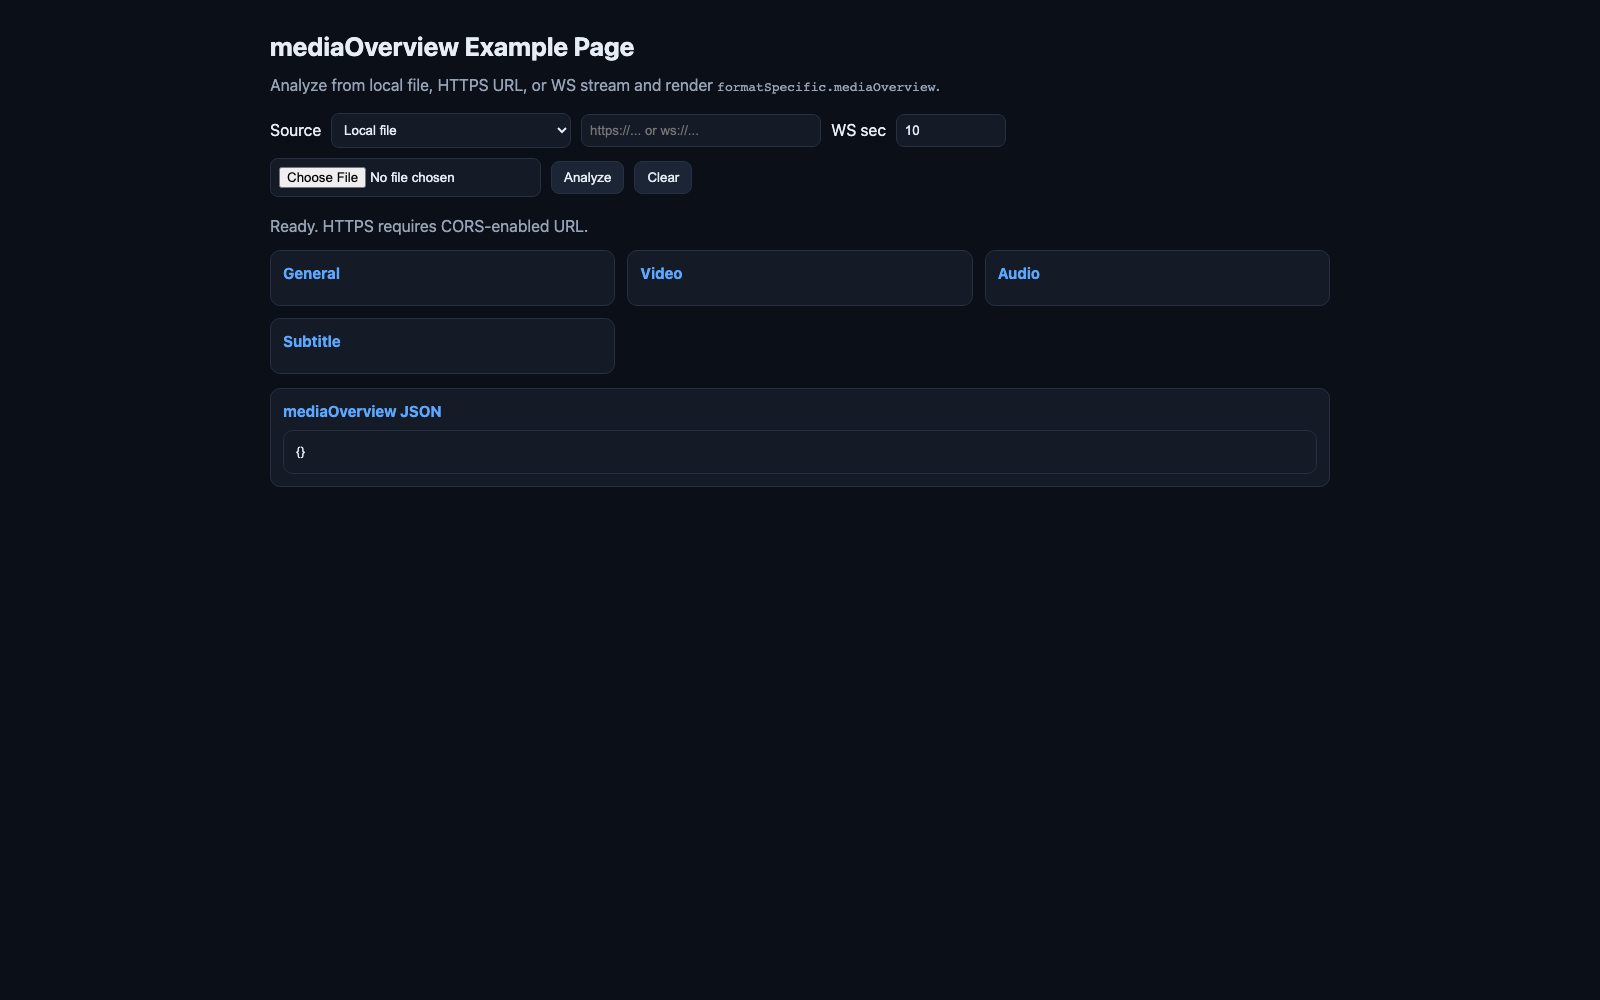
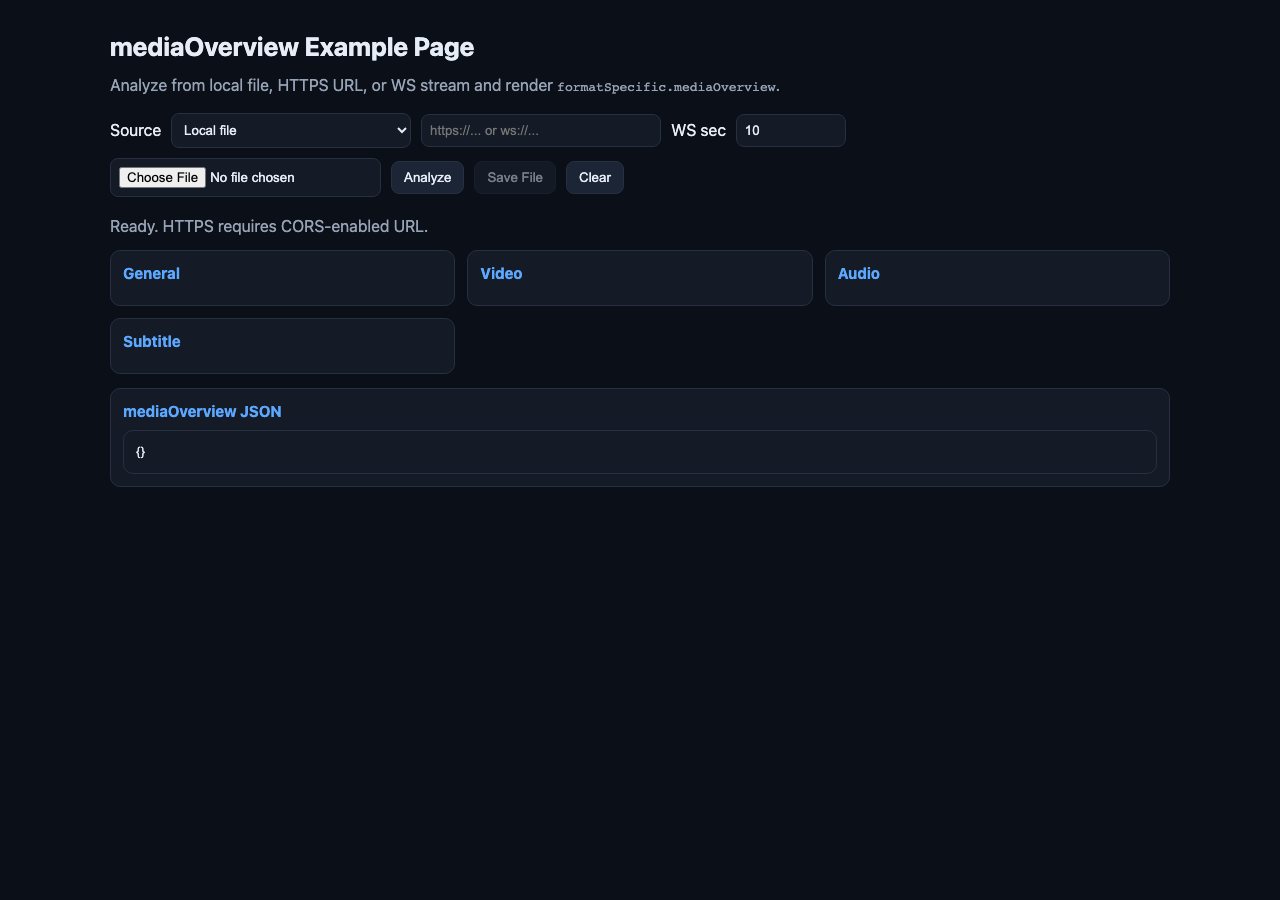
Update documentation and assets: remove player module documentation, add .venv-docs-screenshots to .gitignore, and update frame analysis demo screenshots.

diff --git a/scripts/regenerate_docs_screenshots.py b/scripts/regenerate_docs_screenshots.py
@@ -1,0 +1,95 @@
+#!/usr/bin/env python3
+"""Capture README screenshots for example HTML pages (requires Playwright).
+
+  pip install playwright
+  playwright install chromium
+
+Run from anywhere; paths are resolved relative to the media-analyzer package root.
+"""
+
+from __future__ import annotations
+
+import http.server
+import socket
+import socketserver
+import threading
+from pathlib import Path
+
+ROOT = Path(__file__).resolve().parents[1]
+OUT_DIR = ROOT / "docs" / "screenshots"
+
+SHOTS: list[tuple[str, str, dict]] = [
+    (
+        "examples/media-overview-demo.html",
+        "media-overview-demo.png",
+        {"width": 1280, "height": 900, "device_scale_factor": 1},
+    ),
+    (
+        "examples/frame-analysis-demo.html",
+        "frame-analysis-demo.png",
+        {"width": 1920, "height": 1080, "device_scale_factor": 1},
+    ),
+]
+
+
+class _RootHandler(http.server.SimpleHTTPRequestHandler):
+    def __init__(self, *args, **kwargs):
+        super().__init__(*args, directory=str(ROOT), **kwargs)
+
+    def log_message(self, fmt: str, *args) -> None:
+        del fmt, args
+
+
+def _free_port() -> int:
+    s = socket.socket(socket.AF_INET, socket.SOCK_STREAM)
+    s.bind(("127.0.0.1", 0))
+    port = s.getsockname()[1]
+    s.close()
+    return int(port)
+
+
+def main() -> None:
+    try:
+        from playwright.sync_api import sync_playwright
+    except ImportError as e:
+        raise SystemExit(
+            "Missing playwright. Install with:\n"
+            "  pip install playwright\n"
+            "  playwright install chromium\n"
+        ) from e
+
+    OUT_DIR.mkdir(parents=True, exist_ok=True)
+    port = _free_port()
+    httpd = socketserver.ThreadingTCPServer(("127.0.0.1", port), _RootHandler)
+    httpd.daemon_threads = True
+    thread = threading.Thread(target=httpd.serve_forever, daemon=True)
+    thread.start()
+    base = f"http://127.0.0.1:{port}"
+
+    try:
+        with sync_playwright() as p:
+            browser = p.chromium.launch(headless=True)
+            try:
+                for rel_html, filename, viewport in SHOTS:
+                    page = browser.new_page(viewport=viewport)
+                    try:
+                        page.goto(
+                            f"{base}/{rel_html}",
+                            wait_until="load",
+                            timeout=120_000,
+                        )
+                        page.wait_for_timeout(2500)
+                        dest = OUT_DIR / filename
+                        page.screenshot(path=str(dest), full_page=True)
+                        print(f"Wrote {dest.relative_to(ROOT)}")
+                    finally:
+                        page.close()
+            finally:
+                browser.close()
+    finally:
+        httpd.shutdown()
+        httpd.server_close()
+
+
+if __name__ == "__main__":
+    main()

diff --git a/docs/cef-experiment-conclusion.md b/docs/cef-experiment-conclusion.md
@@ -1,0 +1,71 @@
+# CEF Desktop Experiment Conclusion
+
+Date: 2026-05-12
+
+## Background
+
+The experiment evaluated whether CEF could become the desktop runtime for Media Analyzer while keeping the existing browser-first frontend and extending native capabilities such as RTMP pull, local FFmpeg processing, and low-level network access.
+
+The expected direction was:
+
+- Keep the current JavaScript UI and player code.
+- Use CEF as an embedded browser shell.
+- Expose native media capabilities through a JS bridge.
+- Pull RTMP locally, transmux/transcode when needed, and feed playback data back to the frontend.
+
+## What Was Verified
+
+CEF can host the current frontend and expose a native bridge. Basic application bootstrapping, frontend loading, and native-to-JS messaging are feasible.
+
+RTMP pulling through a local FFmpeg process is also feasible from the native side. FFmpeg can receive RTMP streams and produce browser-consumable containers such as fragmented MP4 in principle.
+
+However, the key playback path was blocked by CEF runtime codec support. In the tested CEF build, MSE rejected common H.264/AAC fragmented MP4 MIME types such as:
+
+```text
+video/mp4; codecs="avc1.420020,mp4a.40.2"
+```
+
+Trying compatible `avc1` codec-string variants did not solve the issue. This indicates that the failure was not caused by RTMP itself, FLV packaging, or fMP4 segment delivery, but by the embedded CEF runtime's media capability set.
+
+## Key Finding
+
+RTMP and FLV are not the real dividing line here. For the current project, the important question is whether the runtime can reliably decode and play the resulting elementary streams through the selected browser playback path.
+
+In normal Chrome, FLV.js-style playback can work because Chrome commonly has the required H.264/AAC media support. In the tested CEF runtime, the same H.264/AAC fMP4 path was not reliably available through MSE.
+
+The existing project also relies heavily on browser media APIs such as WebCodecs and canvas rendering. CEF introduces another compatibility matrix for:
+
+- MSE container and codec support.
+- Proprietary codec availability.
+- WebCodecs support and behavior.
+- Platform-specific media pipeline differences.
+- Custom CEF build requirements if H.264/AAC support is needed.
+
+This makes CEF a risky foundation for the current player direction.
+
+## Conclusion
+
+CEF should not be used as the primary desktop runtime for Media Analyzer at this stage.
+
+The experiment showed that CEF can provide native integration, but its media/runtime limitations are too significant for a project whose core value depends on precise browser media behavior, WebCodecs workflows, and H.264/AAC/RTMP-related playback.
+
+Using CEF would likely require maintaining a custom CEF build with proprietary codec support and repeatedly validating media behavior across platforms. That cost is not aligned with the current project goals.
+
+## Recommended Direction
+
+Keep the browser/WebCodecs frontend as the primary player and analysis surface.
+
+For capabilities that browsers cannot provide directly, such as RTMP, raw TCP, device access, or heavyweight transcoding, prefer a separate native sidecar or local service:
+
+- Native sidecar handles RTMP pull, FFmpeg, TCP, files, and platform-specific work.
+- Browser frontend keeps UI, analysis views, WebCodecs playback, canvas rendering, and developer velocity.
+- Communication happens through WebSocket, HTTP, or another explicit local IPC protocol.
+- Media data should be passed in browser-friendly formats that match the existing player modules.
+
+This keeps the strongest part of the current architecture intact while adding native power only where it is actually required.
+
+## Status
+
+CEF implementation code and demo code have been removed from the project.
+
+This document remains as the experiment record and decision note.
